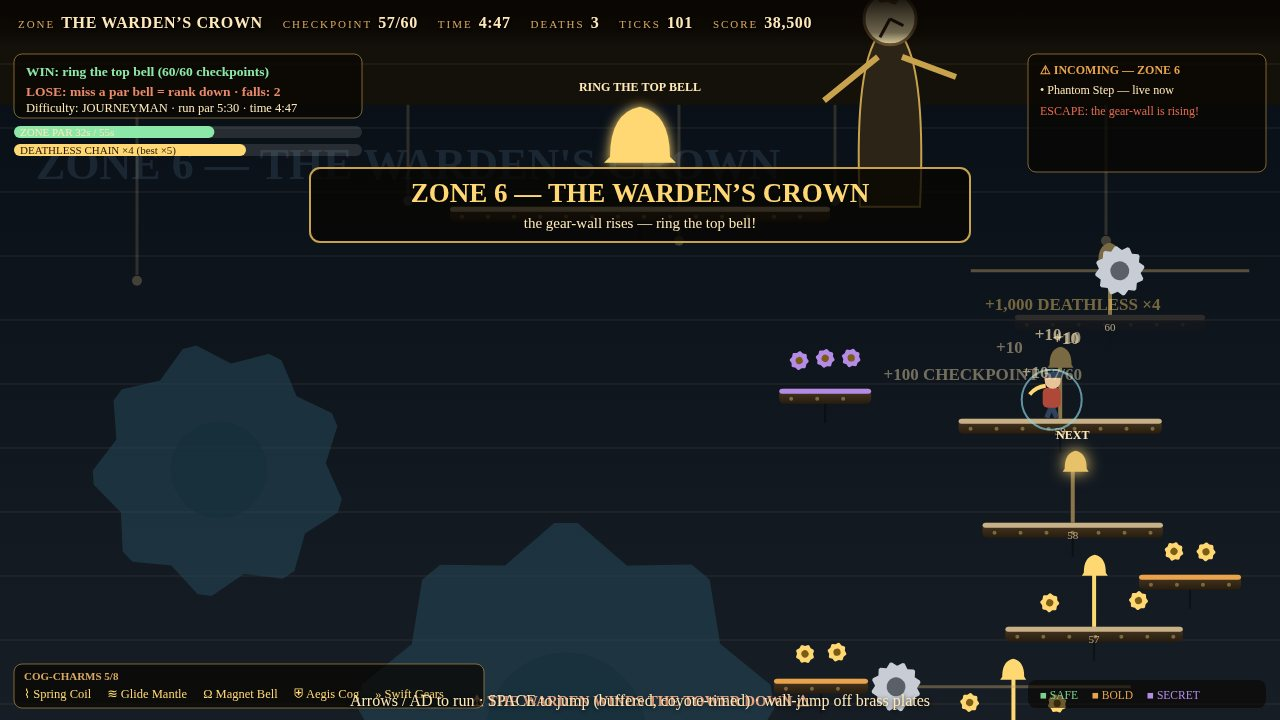
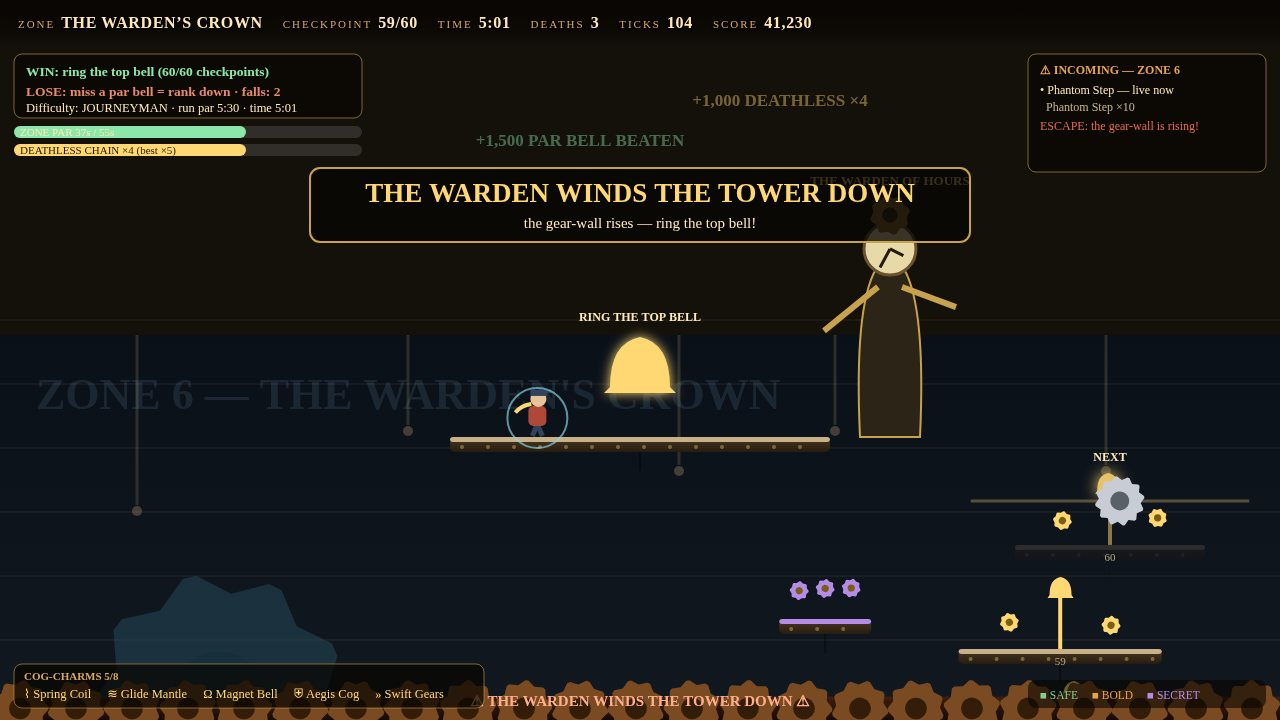
Screenshots: 4 staged renders (climax/meta/title/end), deterministic and under the byte cap

diff --git a/README.md b/README.md
@@ -1,0 +1,89 @@
+[![make.fun · best-game-01](https://make.fun/badge/best-game-01.svg)](https://make.fun/bounty/best-game-01?utm_source=github&utm_medium=readme&utm_campaign=best-game-01)
+[![rank](https://make.fun/badge/best-game-01/binasalama12/makefun-best-game-01-w9-clockwork-ascent/rank.svg)](https://make.fun/bounty/best-game-01/leaderboard?utm_source=github&utm_medium=readme&utm_campaign=best-game-01)
+[![reward](https://make.fun/badge/best-game-01/binasalama12/makefun-best-game-01-w9-clockwork-ascent/reward.svg)](https://make.fun/bounty/best-game-01?utm_source=github&utm_medium=readme&utm_campaign=best-game-01)
+
+# CLOCKWORK ASCENT
+
+**CLOCKWORK ASCENT — 60 checkpoints up the Shattered Belfry: 6 zones, 6 hazards, 3 routes, 8 cog-charms, boss The Warden of Hours**
+
+A precision checkpoint platformer on a 2D canvas — no libraries, no build step, no
+network. Open `game/index.html` from any static server and play.
+
+## The game
+
+Sprint and wall-jump up the **Shattered Belfry**: **60 checkpoint bells** across
+**6 tower zones**, braided into **3 routes** that split and rejoin on every row —
+**SAFE** steps (wide, honest), **BOLD** steps (narrow, over the teeth, paid in
+ticks) and **SECRET** side-steps hiding tick caches. The controls are built to
+feel fair: **coyote time, jump buffering and variable jump height**, plus
+wall-jumps off the brass plates.
+
+- **6 zones:** The Sluice Cellars, The Gearworks, The Pendulum Gallery, The Saw
+  Run, The Bell Foundry, and The Warden's Crown — each with its own textured
+  clockwork backdrop and signature machine.
+- **6 hazard types, six behaviours:** Steam Vents (telegraphed jets), Gear
+  Crushers (railed wheels), Pendulum Mauls (swinging arcs), Sliding Saws
+  (commuting tracks), Bell Shockwaves (expanding rings you jump) and Phantom
+  Steps (platforms that phase in and out).
+- **8 cog-charms, drafted 1-of-3 at every zone gate:** Spring Coil (double
+  jump), Glide Mantle, Magnet Bell, Aegis Cog, Swift Gears, Feather Weight,
+  Tick Doubler, Second Wind — all with real effects, permanent for the run.
+  The gate screen is a full **route map** of the belfry.
+- **3 par difficulties** (Apprentice / Journeyman / Master Horologist): beat
+  each zone's par bell for +1,500; miss it and your final rank drops.
+- **Boss zone — The Warden of Hours:** at checkpoint 55 the Warden starts
+  winding the tower down and a gear-wall rises behind you. The final zone is a
+  timed escape to the great bell.
+- **Scoring in the tens of thousands:** checkpoints, tick chains, secret caches,
+  par bells and a deathless-zone combo chain (×1–×6) stack into full-run scores
+  of 40,000+. A clean S-rank run is a no-death, all-par ascent.
+
+WIN: ring the top bell. LOSE: every missed par bell ranks you down, and the
+falls counter never lies.
+
+## Controls
+
+- **← → / A D:** run. **SPACE / W / ↑:** jump (hold for full height, release to
+  fall early; hold in the air with the Glide Mantle to glide).
+- **Wall-jump:** jump while sliding against a brass plate or tower wall.
+- **1–3:** pick a difficulty on the title screen, pick a cog-charm at a gate.
+- **Enter / click:** start, advance, restart. **R:** restart the run. **P:** pause.
+
+## Screens
+
+`screenshots/` holds four real renders of the game itself, in judging order:
+the zone-6 escape climax (gear-wall rising, the Warden over the bell platform,
+full HUD), the zone-gate draft with the route map, the dense title screen
+(how-to, bestiary, all 8 charms, 3 difficulties), and the victory screen with
+the letter rank, 10 run stats and the cog-charm recap.
+
+## Layout
+
+- `game/index.html` — the page and HUD strip.
+- `game/src/config.js` — zones, the hazard bestiary, the 8 cog-charms, the 3
+  par difficulties, scoring.
+- `game/src/level.js` — seeded tower generation: 60 rows, the 3 braided
+  routes, hazard placement, phantom-step timing.
+- `game/src/physics.js` — the precision kit: coyote time, jump buffering,
+  variable jump height, wall-jumps, glide.
+- `game/src/hazards.js` — the six hazard behaviours and their kill geometry.
+- `game/src/render.js` — all canvas art and screens: textured per-zone
+  backdrops, HUD panels, title / draft / end.
+- `game/src/main.js` — the game loop and state: checkpoints, drafts, scoring,
+  the escape, win / rank.
+- `game/src/hud.js`, `game/src/input.js`, `game/src/audio.js` — HUD strip,
+  controls, WebAudio synth bells and ticks.
+- `game/src/shots.js` — deterministic `?shot=` scenes used to render the
+  screenshots.
+- `main.ts` — the hand-in program: copies `game/` and `screenshots/` out and
+  writes the dossier.
+- `vendor/makefun-game.ts` — the kit's dossier library, unchanged.
+
+## Hand in
+
+```
+mkdir -p out && MAKEFUN_OUTPUT_DIR=out node main.ts
+node serve.ts        # or any static server over game/, to play it
+```
+
+MIT licensed — see `LICENSE`.
